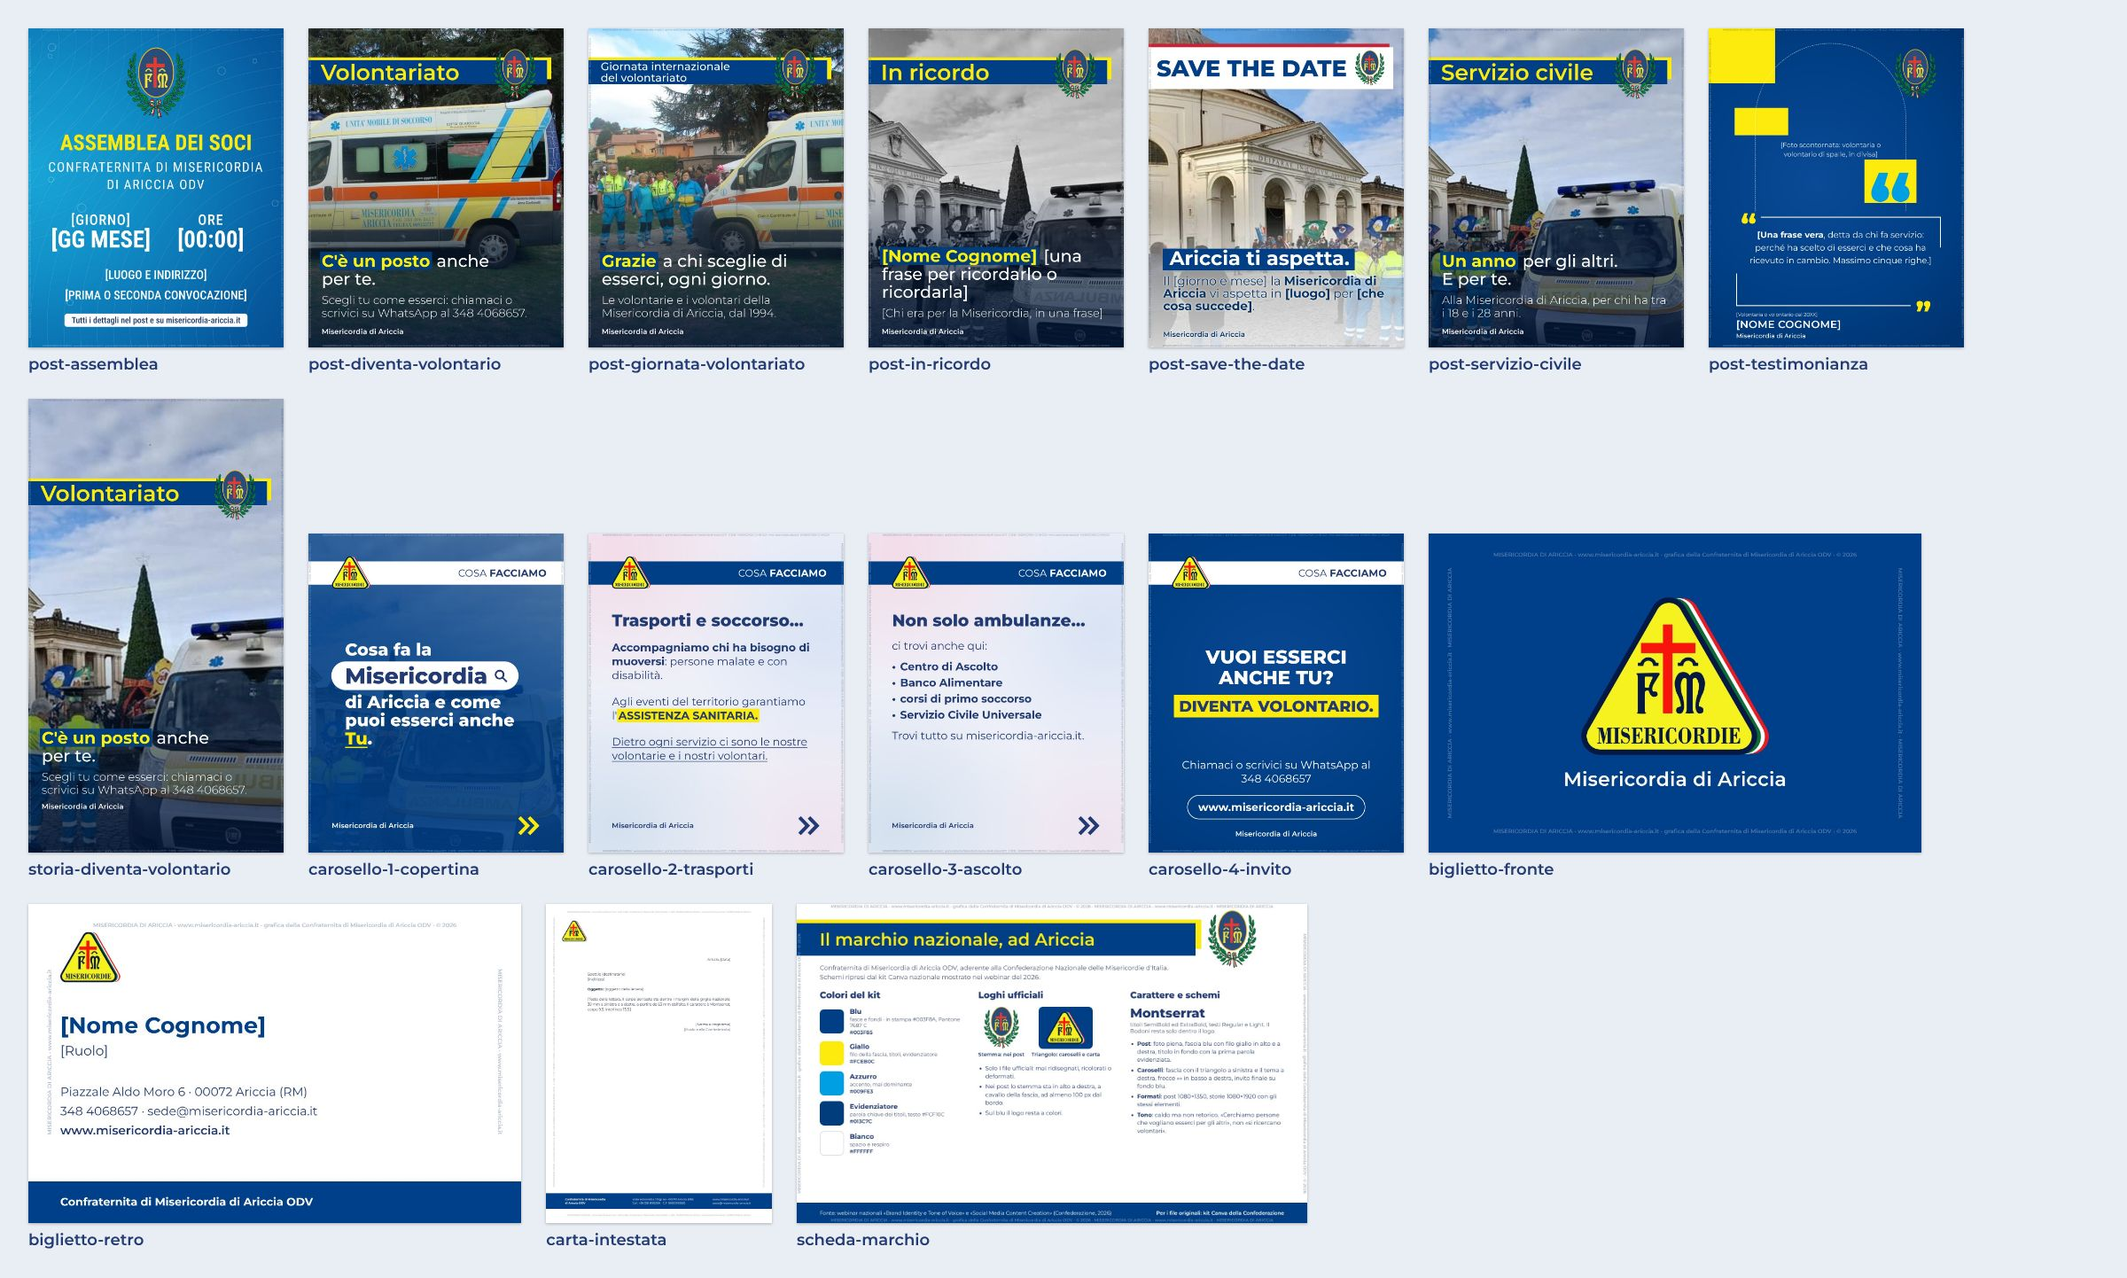
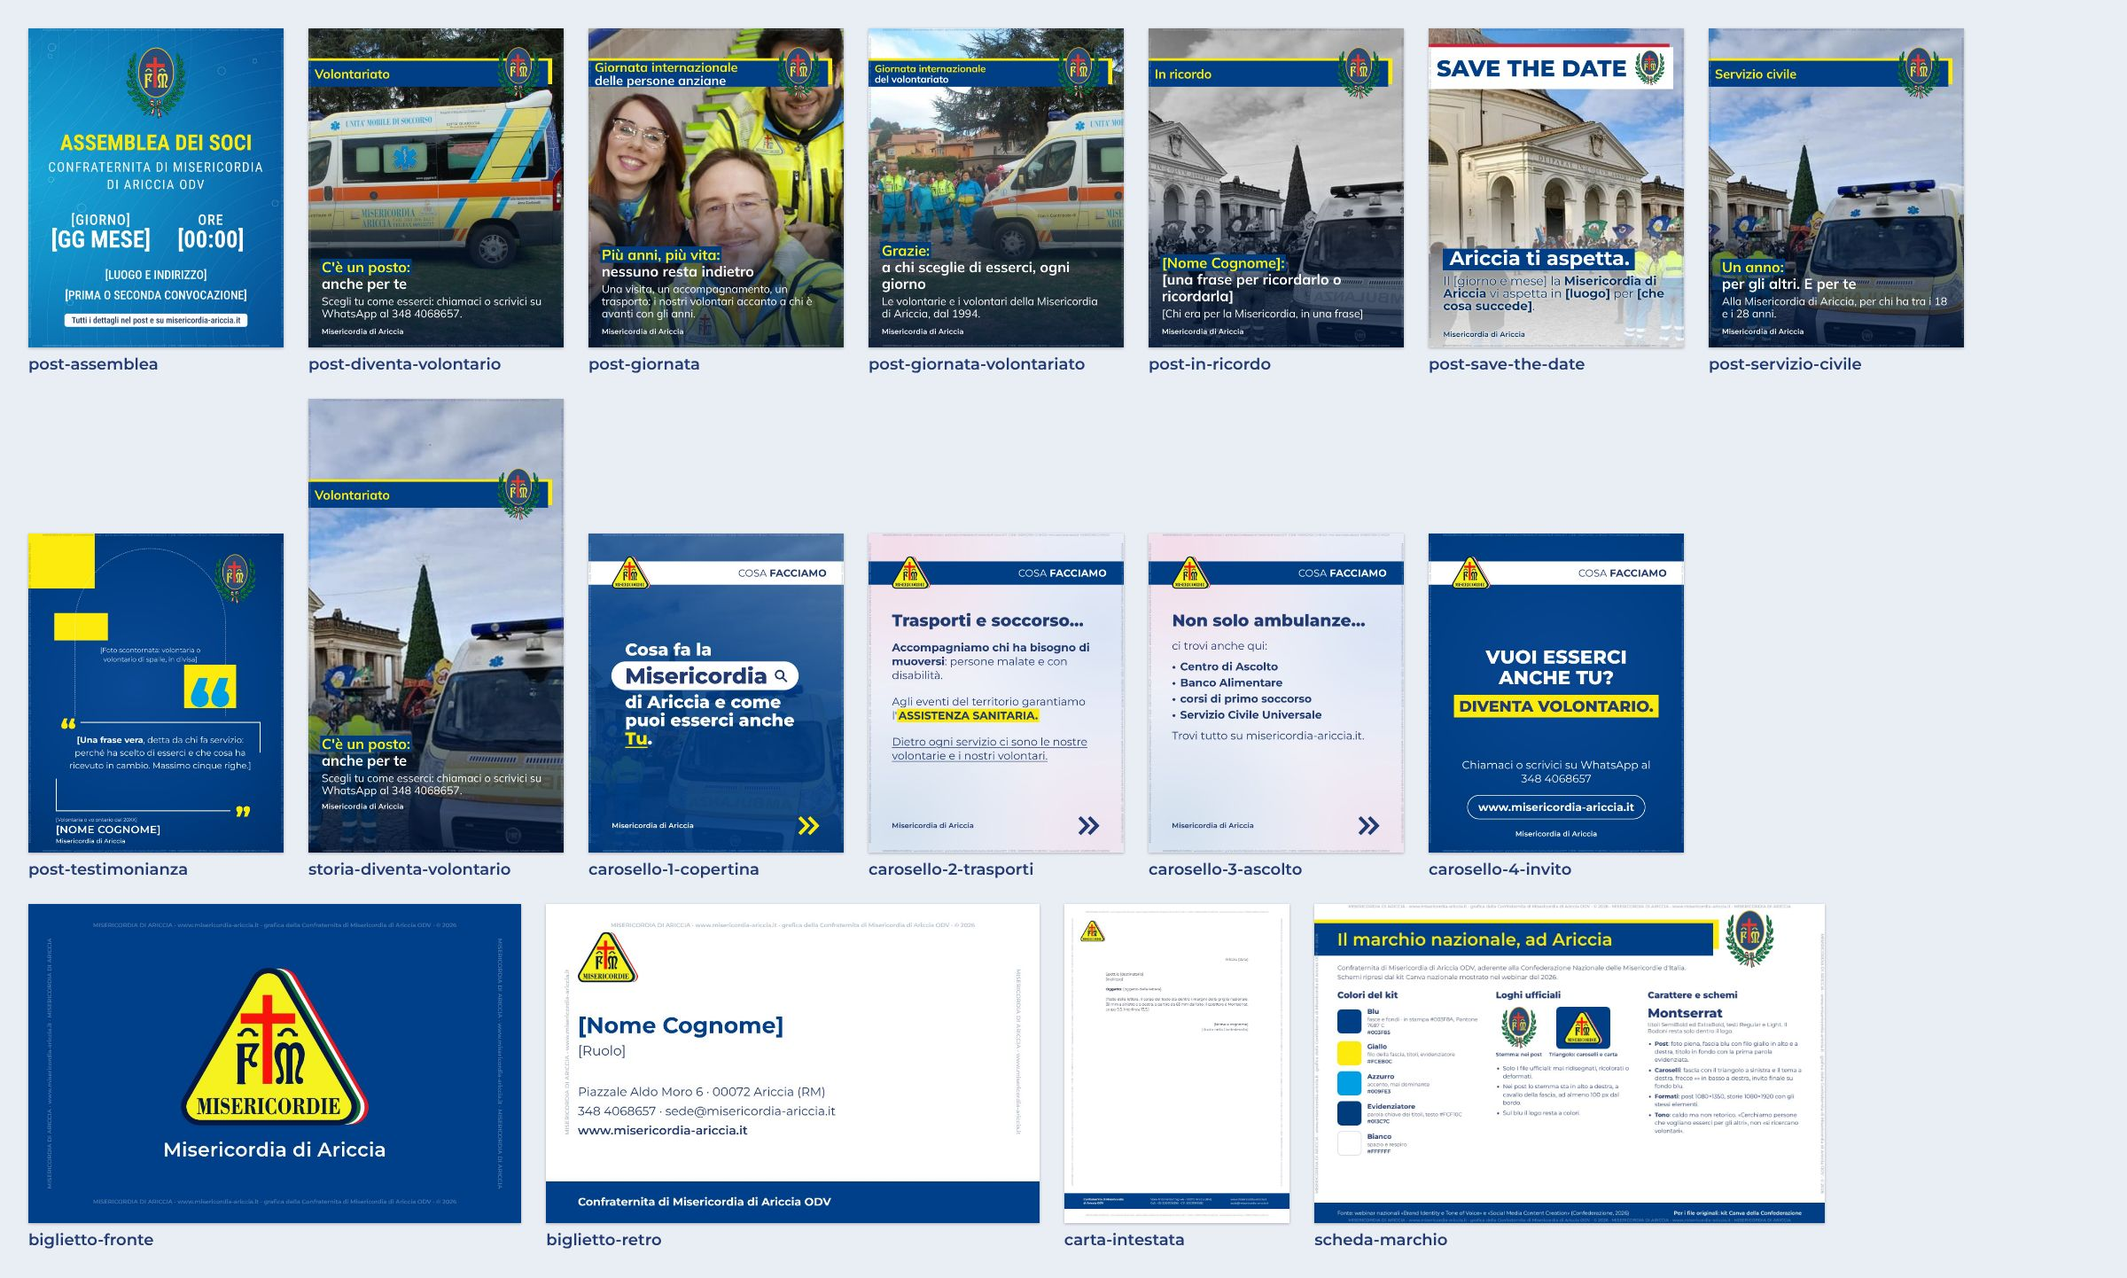
Grafiche come i post nazionali del 2026: post con fascia e storia in Mulish con titolo su due righe; regole e skill aggiornate

diff --git a/scripts/grafica-brand/modelli-nazionali/post-con-fascia-due-righe.html b/scripts/grafica-brand/modelli-nazionali/post-con-fascia-due-righe.html
@@ -16,19 +16,22 @@ Campi (attributo data-campo):
   evidenziato    testo   le prime parole del titolo, sul fondo blu scuro (stanno in una riga)
   titolo         testo   il resto del titolo
   sottotitolo    testo   una frase sotto il titolo
+Dal 2/11/2026 caratteri e misure come nei post nazionali del 2026 (Mulish, fascia e titolo su due righe come in
+post-giornata.html: prima riga evidenziata, di solito chiusa dai due punti), istruzione di Alessandro: «tutte le
+grafiche devono uniformarsi da oggi in poi a quelle del nazionale».
 Si compila e si salva con .claude/skills/grafiche-modelli-nazionali/rendi.py: istruzioni in LEGGIMI.md.
 -->
-<div class="tavola" style="width: 1080px; height: 1350px; position: relative; overflow: hidden; background: #0B2550; font-family: Montserrat, sans-serif">
+<div class="tavola" style="width: 1080px; height: 1350px; position: relative; overflow: hidden; background: #0B2550; font-family: Mulish, sans-serif">
 <img data-campo="foto" data-prova src="foto-prova/piazza-di-corte.jpg" alt="[Descrizione della foto]" style="position: absolute; left: 0; top: 0; width: 100%; height: 100%; object-fit: cover; object-position: 50% 50%">
 <div style="position: absolute; left: 0; right: 0; bottom: 0; height: 700px; background: linear-gradient(180deg, rgba(0, 22, 54, 0) 0%, rgba(0, 22, 54, 0.5) 42%, rgba(0, 22, 54, 0.84) 100%)"></div>
-<div style="position: absolute; left: 0; top: 123px; width: 1028px; height: 92px; background: var(--giallo)"></div>
-<div data-riquadro data-ostacolo style="position: absolute; left: 0; top: 134px; width: 1010px; height: 102px; box-sizing: border-box; padding: 0 240px 0 52px; background: var(--blu); display: flex; align-items: center">
-<span data-campo="fascia" style="font-weight: 500; font-size: 46px; line-height: 1.04; color: #FFFFFF">[Tema del post<br>su due righe]</span>
+<div style="position: absolute; left: 0; top: 126px; width: 1032px; height: 110px; background: var(--giallo)"></div>
+<div data-riquadro data-ostacolo style="position: absolute; left: 0; top: 137px; width: 1014px; height: 110px; box-sizing: border-box; padding: 0 230px 0 26px; background: var(--blu); display: flex; align-items: center">
+<span data-campo="fascia" class="fascia-due-colori" style="display: block; font-weight: 700; font-size: 42px; line-height: 1.08; letter-spacing: -0.2px; color: #FFFFFF; white-space: nowrap">[Tema del post<br>su due righe]</span>
 </div>
-<img data-logo src="loghi/stemma-misericordie.png" alt="Stemma della Confederazione Nazionale delle Misericordie d'Italia" style="position: absolute; left: 786px; top: 88px; width: 176px; height: auto">
-<div data-riquadro style="position: absolute; left: 56px; right: 70px; bottom: 118px; max-height: 560px; display: flex; flex-direction: column; gap: 24px">
-<p style="margin: 0; font-weight: 500; font-size: 71px; line-height: 76px; color: #FFFFFF"><span data-campo="evidenziato" style="display: inline-block; height: 76px; padding: 0 8px; margin-left: -8px; background: #013C7C; color: #FCF10C; font-weight: 700; white-space: nowrap">[Prime parole]</span> <span data-campo="titolo">[resto del titolo]</span></p>
-<p data-campo="sottotitolo" style="margin: 0; font-weight: 300; font-size: 48px; line-height: 55px; color: #FFFFFF">[Una frase: chi, che cosa, come esserci]</p>
+<img data-logo src="loghi/stemma-misericordie.png" alt="Stemma della Confederazione Nazionale delle Misericordie d'Italia" style="position: absolute; left: 798px; top: 80px; width: 182px; height: auto">
+<div data-riquadro style="position: absolute; left: 56px; right: 60px; bottom: 118px; max-height: 560px; display: flex; flex-direction: column; gap: 14px">
+<p style="margin: 0; font-weight: 700; font-size: 61px; line-height: 70px; color: #FFFFFF"><span data-campo="evidenziato" style="display: inline-block; height: 70px; padding: 0 6px; margin-left: -6px; background: #013C7C; color: #FCF10C; white-space: nowrap">[Prime parole]</span><br><span data-campo="titolo">[resto del titolo]</span></p>
+<p data-campo="sottotitolo" style="margin: 0; font-weight: 400; font-size: 46px; line-height: 52px; color: #FFFFFF">[Una frase: chi, che cosa, come esserci]</p>
 </div>
 <div class="firma" data-firma style="left: 56px; bottom: 52px; color: #FFFFFF; text-shadow: 0 1px 6px rgba(0, 22, 54, 0.6)">Misericordia di Ariccia</div>
 </div>

diff --git a/scripts/grafica-brand/modelli-nazionali/storia-con-fascia.html b/scripts/grafica-brand/modelli-nazionali/storia-con-fascia.html
@@ -17,19 +17,22 @@ Campi (attributo data-campo):
   evidenziato    testo   le prime parole del titolo, sul fondo blu scuro (stanno in una riga)
   titolo         testo   il resto del titolo
   sottotitolo    testo   una frase sotto il titolo
+Dal 2/11/2026 caratteri e misure come nei post nazionali del 2026 (Mulish, fascia e titolo su due righe come in
+post-giornata.html: prima riga evidenziata, di solito chiusa dai due punti), istruzione di Alessandro: «tutte le
+grafiche devono uniformarsi da oggi in poi a quelle del nazionale».
 Si compila e si salva con .claude/skills/grafiche-modelli-nazionali/rendi.py: istruzioni in LEGGIMI.md.
 -->
-<div class="tavola" style="width: 1080px; height: 1920px; position: relative; overflow: hidden; background: #0B2550; font-family: Montserrat, sans-serif">
+<div class="tavola" style="width: 1080px; height: 1920px; position: relative; overflow: hidden; background: #0B2550; font-family: Mulish, sans-serif">
 <img data-campo="foto" data-prova src="foto-prova/piazza-di-corte.jpg" alt="[Descrizione della foto]" style="position: absolute; left: 0; top: 0; width: 100%; height: 100%; object-fit: cover; object-position: 50% 50%">
 <div style="position: absolute; left: 0; right: 0; bottom: 0; height: 900px; background: linear-gradient(180deg, rgba(0, 22, 54, 0) 0%, rgba(0, 22, 54, 0.5) 42%, rgba(0, 22, 54, 0.84) 100%)"></div>
-<div style="position: absolute; left: 0; top: 337px; width: 1028px; height: 92px; background: var(--giallo)"></div>
-<div data-riquadro data-ostacolo style="position: absolute; left: 0; top: 348px; width: 1010px; height: 102px; box-sizing: border-box; padding: 0 240px 0 52px; background: var(--blu); display: flex; align-items: center">
-<span data-campo="fascia" style="font-weight: 600; font-size: 93px; line-height: 1; color: var(--giallo); white-space: nowrap">[Tema]</span>
+<div style="position: absolute; left: 0; top: 340px; width: 1032px; height: 110px; background: var(--giallo)"></div>
+<div data-riquadro data-ostacolo style="position: absolute; left: 0; top: 351px; width: 1014px; height: 110px; box-sizing: border-box; padding: 0 230px 0 26px; background: var(--blu); display: flex; align-items: center">
+<span data-campo="fascia" style="font-weight: 700; font-size: 54px; line-height: 1.04; letter-spacing: -0.2px; color: var(--giallo); white-space: nowrap">[Tema]</span>
 </div>
-<img data-logo src="loghi/stemma-misericordie.png" alt="Stemma della Confederazione Nazionale delle Misericordie d'Italia" style="position: absolute; left: 786px; top: 302px; width: 176px; height: auto">
-<div data-riquadro style="position: absolute; left: 56px; right: 70px; bottom: 238px; max-height: 650px; display: flex; flex-direction: column; gap: 24px">
-<p style="margin: 0; font-weight: 500; font-size: 71px; line-height: 76px; color: #FFFFFF"><span data-campo="evidenziato" style="display: inline-block; height: 76px; padding: 0 8px; margin-left: -8px; background: #013C7C; color: #FCF10C; font-weight: 700; white-space: nowrap">[Prime parole]</span> <span data-campo="titolo">[resto del titolo]</span></p>
-<p data-campo="sottotitolo" style="margin: 0; font-weight: 300; font-size: 48px; line-height: 55px; color: #FFFFFF">[Una frase: chi, che cosa, come esserci]</p>
+<img data-logo src="loghi/stemma-misericordie.png" alt="Stemma della Confederazione Nazionale delle Misericordie d'Italia" style="position: absolute; left: 798px; top: 294px; width: 182px; height: auto">
+<div data-riquadro style="position: absolute; left: 56px; right: 60px; bottom: 238px; max-height: 650px; display: flex; flex-direction: column; gap: 14px">
+<p style="margin: 0; font-weight: 700; font-size: 61px; line-height: 70px; color: #FFFFFF"><span data-campo="evidenziato" style="display: inline-block; height: 70px; padding: 0 6px; margin-left: -6px; background: #013C7C; color: #FCF10C; white-space: nowrap">[Prime parole]</span><br><span data-campo="titolo">[resto del titolo]</span></p>
+<p data-campo="sottotitolo" style="margin: 0; font-weight: 400; font-size: 46px; line-height: 52px; color: #FFFFFF">[Una frase: chi, che cosa, come esserci]</p>
 </div>
 <div class="firma" data-firma style="left: 56px; bottom: 180px; color: #FFFFFF; text-shadow: 0 1px 6px rgba(0, 22, 54, 0.6)">Misericordia di Ariccia</div>
 </div>

diff --git a/scripts/grafica-brand/modelli-nazionali/post-con-fascia.html b/scripts/grafica-brand/modelli-nazionali/post-con-fascia.html
@@ -16,19 +16,22 @@ Campi (attributo data-campo):
   evidenziato    testo   le prime parole del titolo, sul fondo blu scuro (stanno in una riga)
   titolo         testo   il resto del titolo
   sottotitolo    testo   una frase sotto il titolo
+Dal 2/11/2026 caratteri e misure come nei post nazionali del 2026 (Mulish, fascia e titolo su due righe come in
+post-giornata.html: prima riga evidenziata, di solito chiusa dai due punti), istruzione di Alessandro: «tutte le
+grafiche devono uniformarsi da oggi in poi a quelle del nazionale».
 Si compila e si salva con .claude/skills/grafiche-modelli-nazionali/rendi.py: istruzioni in LEGGIMI.md.
 -->
-<div class="tavola" style="width: 1080px; height: 1350px; position: relative; overflow: hidden; background: #0B2550; font-family: Montserrat, sans-serif">
+<div class="tavola" style="width: 1080px; height: 1350px; position: relative; overflow: hidden; background: #0B2550; font-family: Mulish, sans-serif">
 <img data-campo="foto" data-prova src="foto-prova/piazza-di-corte.jpg" alt="[Descrizione della foto]" style="position: absolute; left: 0; top: 0; width: 100%; height: 100%; object-fit: cover; object-position: 50% 50%">
 <div style="position: absolute; left: 0; right: 0; bottom: 0; height: 700px; background: linear-gradient(180deg, rgba(0, 22, 54, 0) 0%, rgba(0, 22, 54, 0.5) 42%, rgba(0, 22, 54, 0.84) 100%)"></div>
-<div style="position: absolute; left: 0; top: 123px; width: 1028px; height: 92px; background: var(--giallo)"></div>
-<div data-riquadro data-ostacolo style="position: absolute; left: 0; top: 134px; width: 1010px; height: 102px; box-sizing: border-box; padding: 0 240px 0 52px; background: var(--blu); display: flex; align-items: center">
-<span data-campo="fascia" style="font-weight: 600; font-size: 93px; line-height: 1; color: var(--giallo); white-space: nowrap">[Tema]</span>
+<div style="position: absolute; left: 0; top: 126px; width: 1032px; height: 110px; background: var(--giallo)"></div>
+<div data-riquadro data-ostacolo style="position: absolute; left: 0; top: 137px; width: 1014px; height: 110px; box-sizing: border-box; padding: 0 230px 0 26px; background: var(--blu); display: flex; align-items: center">
+<span data-campo="fascia" style="font-weight: 700; font-size: 54px; line-height: 1.04; letter-spacing: -0.2px; color: var(--giallo); white-space: nowrap">[Tema]</span>
 </div>
-<img data-logo src="loghi/stemma-misericordie.png" alt="Stemma della Confederazione Nazionale delle Misericordie d'Italia" style="position: absolute; left: 786px; top: 88px; width: 176px; height: auto">
-<div data-riquadro style="position: absolute; left: 56px; right: 70px; bottom: 118px; max-height: 560px; display: flex; flex-direction: column; gap: 24px">
-<p style="margin: 0; font-weight: 500; font-size: 71px; line-height: 76px; color: #FFFFFF"><span data-campo="evidenziato" style="display: inline-block; height: 76px; padding: 0 8px; margin-left: -8px; background: #013C7C; color: #FCF10C; font-weight: 700; white-space: nowrap">[Prime parole]</span> <span data-campo="titolo">[resto del titolo]</span></p>
-<p data-campo="sottotitolo" style="margin: 0; font-weight: 300; font-size: 48px; line-height: 55px; color: #FFFFFF">[Una frase: chi, che cosa, come esserci]</p>
+<img data-logo src="loghi/stemma-misericordie.png" alt="Stemma della Confederazione Nazionale delle Misericordie d'Italia" style="position: absolute; left: 798px; top: 80px; width: 182px; height: auto">
+<div data-riquadro style="position: absolute; left: 56px; right: 60px; bottom: 118px; max-height: 560px; display: flex; flex-direction: column; gap: 14px">
+<p style="margin: 0; font-weight: 700; font-size: 61px; line-height: 70px; color: #FFFFFF"><span data-campo="evidenziato" style="display: inline-block; height: 70px; padding: 0 6px; margin-left: -6px; background: #013C7C; color: #FCF10C; white-space: nowrap">[Prime parole]</span><br><span data-campo="titolo">[resto del titolo]</span></p>
+<p data-campo="sottotitolo" style="margin: 0; font-weight: 400; font-size: 46px; line-height: 52px; color: #FFFFFF">[Una frase: chi, che cosa, come esserci]</p>
 </div>
 <div class="firma" data-firma style="left: 56px; bottom: 52px; color: #FFFFFF; text-shadow: 0 1px 6px rgba(0, 22, 54, 0.6)">Misericordia di Ariccia</div>
 </div>

diff --git a/scripts/grafica-brand/modelli-nazionali/base.css b/scripts/grafica-brand/modelli-nazionali/base.css
@@ -82,3 +82,6 @@ body.lutto img[data-campo] { filter: grayscale(1); }
 .sottolinea { text-decoration: underline; text-decoration-thickness: 2px; text-underline-offset: 7px; }
 /* Ultima parola del titolo della copertina del carosello, gialla e sottolineata. */
 .finale { color: var(--giallo); text-decoration: underline; text-decoration-thickness: 6px; text-underline-offset: 10px; }
+
+/* Fascia su due righe dei post nazionali del 2026: prima riga gialla, seconda bianca (post-con-fascia-due-righe.html). */
+.fascia-due-colori::first-line { color: var(--giallo); }

diff --git a/.claude/skills/grafiche-modelli-nazionali/SKILL.md b/.claude/skills/grafiche-modelli-nazionali/SKILL.md
@@ -17,6 +17,10 @@ Origine: skill scritta per Alessandro Cuollo il 21/10/2026 insieme ai modelli (s
 5. **Firma e cornice, sempre.** Ogni grafica dice «Misericordia di Ariccia» e ha lungo i bordi una cornice di microtesto (Alessandro, 21/10/2026: «metti in ogni slide, documento grafico eccetera sempre Misericordia di Ariccia! Altrimenti ci rubano la grafica!!»). Con i modelli le mette `rendi.py`; per una grafica fatta in altro modo vedi «Grafiche fatte in altro modo» qui sotto.
 6. **Lutto.** Le foto a colori restano a colori; quelle nate in bianco e nero, come quelle d'archivio, restano come sono. Solo quando la grafica ricorda una persona morta (consorelle e confratelli, volontari, benefattori, personaggi pubblici vicini alla Misericordia dal Papa in giù, anniversari della morte, vittime di una tragedia, 2 novembre) la foto va in bianco e nero: sui social il bianco e nero è il segno del lutto. La grafica resta istituzionale e a colori. Per un personaggio pubblico, foto con licenza libera e autore citato nel testo del post.
 
+## Stile dei post nazionali (dal 2/11/2026)
+
+Alessandro, 2/11/2026: «tutte le grafiche devono uniformarsi da oggi in poi a quelle del nazionale». I post con foto (`post-con-fascia`, `post-con-fascia-due-righe`, `storia-con-fascia`, `post-giornata`) hanno caratteri e misure dei post nazionali del 2026: carattere Mulish, fascia con il tema in giallo (su due righe: prima riga gialla, seconda bianca), titolo su due righe con la prima evidenziata e chiusa dai due punti (`"evidenziato": "Il bene compiuto:"`, `"titolo": "continua a vivere"`), frase sotto. Per ricorrenze e giornate si usa `post-giornata`; come immagine, prima una foto nostra, poi le opere di misericordia di `scripts/grafica-brand/opere-misericordia/`, e solo se manca tutto un'immagine dei post nazionali.
+
 ## Fare la grafica
 
 1. Copia un esempio di `scripts/grafica-brand/modelli-nazionali/esempi/` nella cartella di lavoro e riempi i campi:
@@ -26,8 +30,8 @@ Origine: skill scritta per Alessandro Cuollo il 21/10/2026 insieme ai modelli (s
      "modello": "post-con-fascia",
      "campi": {
        "fascia": "Volontariato",
-       "evidenziato": "C'è un posto",
-       "titolo": "anche per te.",
+       "evidenziato": "C'è un posto:",
+       "titolo": "anche per te",
        "sottotitolo": "Scegli tu come esserci: chiamaci o scrivici su WhatsApp al 348 4068657.",
        "foto": "foto-evento.jpg",
        "foto-posizione": "70% 50%",

diff --git a/CLAUDE.md b/CLAUDE.md
@@ -321,6 +321,13 @@ comunicazione della Confederazione pubblicati su YouTube.
   identici: colori e caratteri del modello, niente cornici decorative, filigrane
   o altri loghi. L'unica aggiunta è la firma con la cornice di microtesto (punto
   qui sotto).
+- **Come i post nazionali di oggi (dal 2/11/2026).** Alessandro: «tutte le grafiche devono uniformarsi da
+  oggi in poi a quelle del nazionale! Di ogni post che pubblichi». I modelli con foto (`post-con-fascia`,
+  `post-con-fascia-due-righe`, `storia-con-fascia` e il nuovo `post-giornata` per ricorrenze e giornate) hanno
+  caratteri e misure dei post nazionali del 2026: Mulish, tema in giallo nella fascia, titolo su due righe con la
+  prima evidenziata e chiusa dai due punti, frase sotto. Per le giornate: prima foto nostre, poi le Sette opere di
+  misericordia del Maestro di Alkmaar (`scripts/grafica-brand/opere-misericordia/`), solo in mancanza le immagini
+  dei post nazionali. I post nazionali si leggono con «Gestione social» → `osserva-ig` (ID `misericordieitalia`).
 - **Firma «Misericordia di Ariccia» e cornice di microtesto in ogni grafica (dal
   21/10/2026).** Alessandro: «metti in ogni slide, documento grafico eccetera
   sempre Misericordia di Ariccia! Altrimenti ci rubano la grafica!! e se riesci
